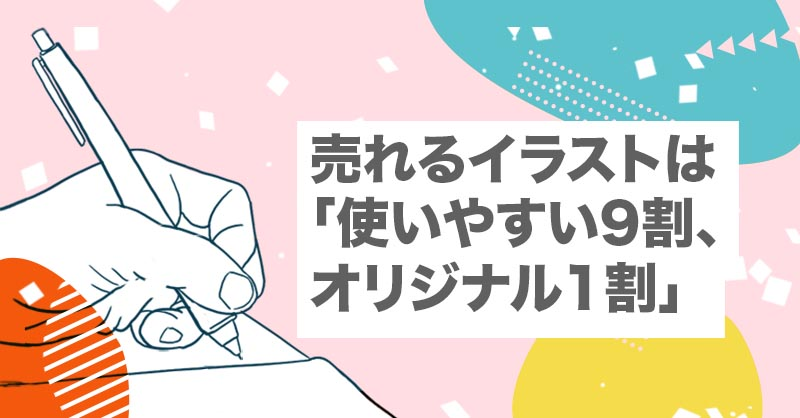
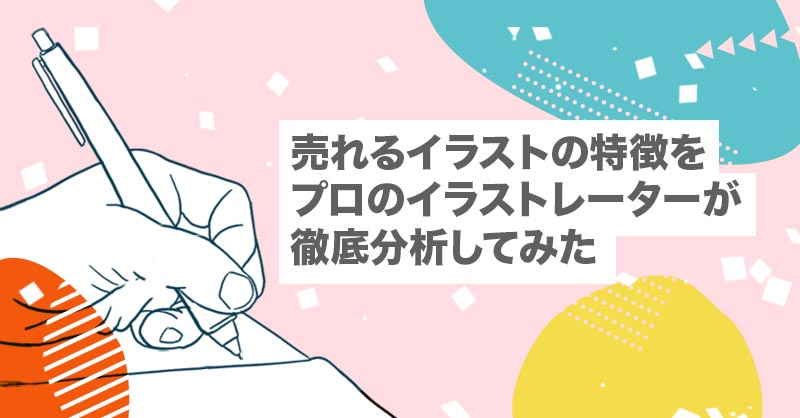
post edits twitter card delete

Changed region(s): [[0.3438, 0.2799, 0.9688, 0.8086]]

diff --git a/exampleSite/layouts/partials/head.html b/exampleSite/layouts/partials/head.html
@@ -61,14 +61,5 @@
 {{- with .Site.Social.facebook_admin }}<meta property="fb:admins" content="{{ . }}" />{{ end }}
 <!-- /open graph -->
 
-<!-- twitter card -->
-<meta name="twitter:card" content="summary_large_image"/>
-<meta name="twitter:title" content="{{ .Title }}"/>
-<meta name="twitter:description" content="{{ with .Description }}{{ . }}{{ else }}{{if .IsPage}}{{ .Summary }}{{ else }}{{ with .Site.Params.description }}{{ . }}{{ end }}{{ end }}{{ end -}}"/>
-{{ with .Site.Social.twitter -}}
-<meta name="twitter:site" content="@{{ . }}"/>
-{{ end -}}
-<!-- /twitter card -->
-
 {{ template "_internal/google_analytics_async.html" . }}
 {{ site.Params.custom_script | safeHTML }}

diff --git a/exampleSite/layouts/_default/single.html b/exampleSite/layouts/_default/single.html
@@ -30,8 +30,8 @@
             {{ range .}}
             {{ if (fileExists (add `assets/` .)) }}
             {{ $image:= resources.Get . }}
-            {{ $imageMD:= $image.Fill "700x330" }}
-            {{ $imageSM:= $image.Fill "380x180" }}
+            {{ $imageMD:= $image.Fill "800x418" }}
+            {{ $imageSM:= $image.Fill "400x209" }}
             <picture>
               <source srcset="{{ $imageSM.Permalink }}" media="(max-width: 575px)">
               <source srcset="{{ $imageMD.Permalink }}" media="(max-width: 991px)">

diff --git a/exampleSite/content/japanese/post/illustration-that-sells.md b/exampleSite/content/japanese/post/illustration-that-sells.md
@@ -1,5 +1,5 @@
 ---
-title: "売れるイラストは「使いやすい9割、オリジナル1割」【フリーランス】"
+title: "売れるイラストの特徴をプロのイラストレーターが徹底分析してみた【フリーランス｜オリジナル】"
 date: 2021-05-04
 lastmod: 2021-05-08
 # post thumb
